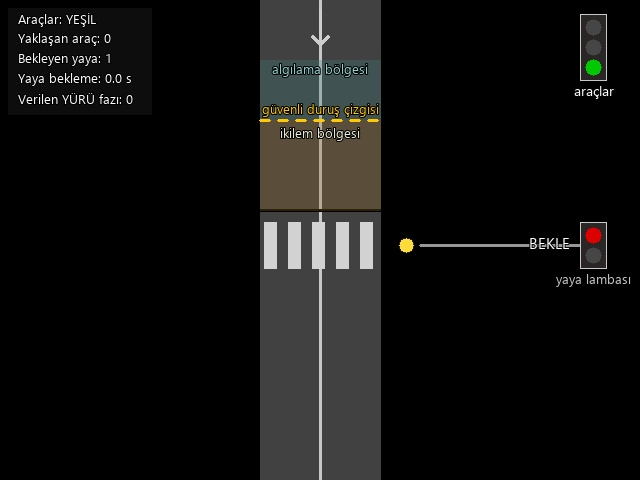
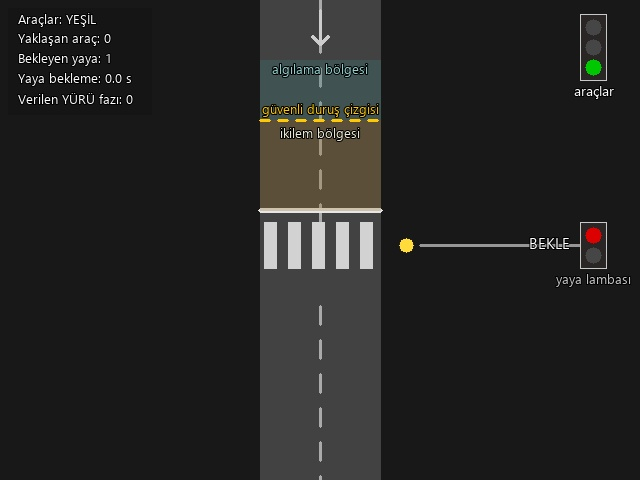
Standardize road drawing across all cases; drop Case 2 sim detector boxes
Simulation mode in Case 2 no longer draws detector-style annotation
boxes over vehicles (they remain in real mode, where every case shows
them). SimulatedRoad now uses the Case 3 drawing grammar: 24-grey
ground, 66-grey asphalt, dashed centre lines that break at the crosswalk
(Case 1) or junction box (Case 2), and thick white stop lines instead of
the invisible black ones. The horizontal road surface now continues to
the frame edge instead of dead-ending after the junction, and the
leftover dark merge-mark line is gone.

Claude-Session: https://claude.ai/code/session_0159dhhnJ6cFi6rrwV8XwqLF

diff --git a/smart_traffic_system.py b/smart_traffic_system.py
@@ -845,33 +845,50 @@ class SimulatedRoad:
             self._lane_left = 0
             self._lane_right = merge_exit
 
+        #: Range along the travel axis where the centre line is suppressed
+        #: (the crosswalk band in Case 1, the junction box in Case 2), so
+        #: markings break at conflict areas exactly like Case 3.
+        self.line_gap: Tuple[int, int] | None = None
         self.background = self._create_background()
 
+    def _dashed_center_line(self, frame: np.ndarray) -> None:
+        # Same dash rhythm and colour as Case 3's centre lines.
+        dash, gap = 18, 16
+        color = (170, 170, 170)
+        if self.orientation == "vertical":
+            x = self.frame_width // 2
+            for y in range(0, self.frame_height, dash + gap):
+                if self.line_gap and self.line_gap[0] <= y <= self.line_gap[1]:
+                    continue
+                cv2.line(frame, (x, y), (x, min(y + dash, self.frame_height)), color, 2)
+        else:
+            y = self.frame_height // 2
+            for x in range(self._lane_left, self.frame_width, dash + gap):
+                if self.line_gap and self.line_gap[0] <= x <= self.line_gap[1]:
+                    continue
+                cv2.line(frame, (x, y), (min(x + dash, self.frame_width), y), color, 2)
+
     def _create_background(self) -> np.ndarray:
-        frame = np.zeros((self.frame_height, self.frame_width, 3), dtype=np.uint8)
-        road_color = (65, 65, 65)
-        line_color = (200, 200, 200)
+        # Same surface tones and marking grammar as Case 3: 24-grey ground,
+        # 66-grey road, dashed centre line, thick white stop line.
+        frame = np.full((self.frame_height, self.frame_width, 3), 24, dtype=np.uint8)
+        road_color = (66, 66, 66)
+        stop_color = (230, 230, 230)
 
         if self.orientation == "vertical":
             lane_left = self._lane_left
             lane_right = self._lane_right
             cv2.rectangle(frame, (lane_left, 0), (lane_right, self.frame_height), road_color, -1)
-            cv2.line(frame, (self.frame_width // 2, 0), (self.frame_width // 2, self.frame_height), line_color, 2)
-            cv2.line(frame, (lane_left, self.stop_line), (lane_right, self.stop_line), (0, 0, 0), 2)
+            self._dashed_center_line(frame)
+            cv2.line(frame, (lane_left, self.stop_line), (lane_right, self.stop_line), stop_color, 3)
         else:
             lane_top = self.frame_height // 2 - 60
             lane_bottom = self.frame_height // 2 + 60
-            cv2.rectangle(frame, (self._lane_left, lane_top), (self._lane_right, lane_bottom), road_color, -1)
-            cv2.line(frame, (self._lane_left, self.frame_height // 2), (self._lane_right, self.frame_height // 2), line_color, 2)
-            cv2.line(frame, (self.stop_line, lane_top), (self.stop_line, lane_bottom), (0, 0, 0), 2)
-            merge_mark_right = min(self.frame_width - 1, self._lane_right + 20)
-            cv2.line(
-                frame,
-                (merge_mark_right, lane_top),
-                (merge_mark_right, lane_bottom),
-                (30, 30, 30),
-                2,
-            )
+            # The drawn surface continues to the frame edge — vehicles keep
+            # driving past _lane_right until they despawn.
+            cv2.rectangle(frame, (self._lane_left, lane_top), (self.frame_width, lane_bottom), road_color, -1)
+            self._dashed_center_line(frame)
+            cv2.line(frame, (self.stop_line, lane_top), (self.stop_line, lane_bottom), stop_color, 3)
 
         return frame
 
@@ -1324,6 +1341,13 @@ class SimulationTrafficSystem:
         self.baseline = Case2Baseline(
             resolved_seed, frame_size, main_spawn_rate, side_spawn_rate
         )
+        # Break each centre line at the junction box (standard grammar).
+        junction_top = frame_size[0] // 2 - 60
+        junction_bottom = frame_size[0] // 2 + 60
+        self.road1.line_gap = (junction_top - 6, junction_bottom + 6)
+        self.road1.background = self.road1._create_background()
+        self.road2.line_gap = (self.road1._lane_left - 6, self.road1._lane_right + 6)
+        self.road2.background = self.road2._create_background()
         self._scene_background = self._create_scene_background()
 
         def _line_ratio(position: int, dimension: int) -> float:
@@ -1381,7 +1405,7 @@ class SimulationTrafficSystem:
     def _create_scene_background(self) -> np.ndarray:
         """Combine road backgrounds into a single intersection view."""
 
-        base = np.full(self.frame_shape, 20, dtype=np.uint8)
+        base = np.full(self.frame_shape, 24, dtype=np.uint8)
         road_overlay = np.maximum(self.road1.background, self.road2.background)
         mask = road_overlay > 0
         base[mask] = road_overlay[mask]
@@ -1511,9 +1535,6 @@ class SimulationTrafficSystem:
                 frame = self._scene_background.copy()
                 self.road1.draw_vehicles(frame)
                 self.road2.draw_vehicles(frame)
-
-                frame = draw_vehicle_annotations(frame, metrics1)
-                frame = draw_vehicle_annotations(frame, metrics2)
 
                 frame = draw_case2_hud(
                     frame, self._current_signal, metrics1, metrics2,

diff --git a/pedestrian_crossing.py b/pedestrian_crossing.py
@@ -367,6 +367,9 @@ class PedestrianCrossingSimulation:
         self._left_wait_x = self.road._lane_left - 26
         self._right_wait_x = self.road._lane_right + 26
 
+        # Break the centre-line dashes at the crosswalk band, the same way
+        # Case 3 breaks them at the junction box.
+        self.road.line_gap = (self.crosswalk_top - 6, self.crosswalk_bottom + 6)
         self._background = self._create_background()
 
     # -- world ------------------------------------------------------------
